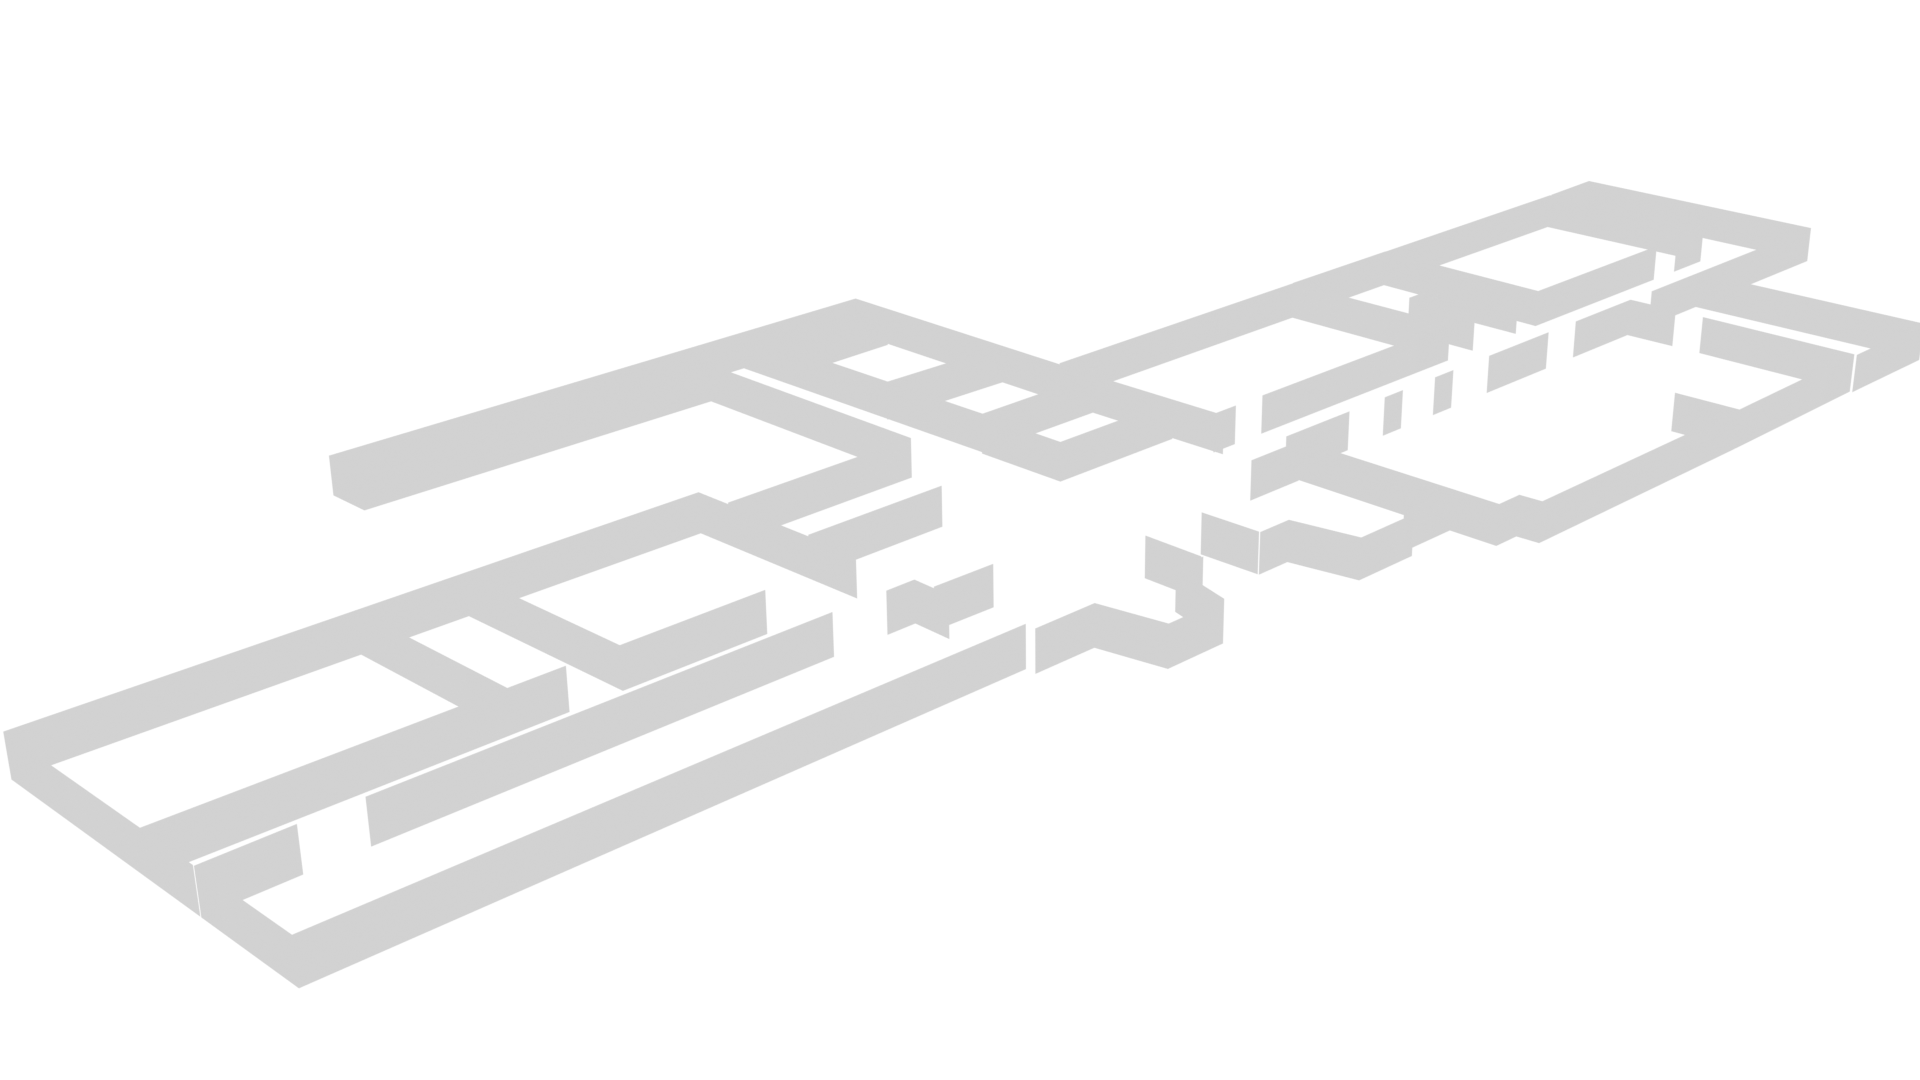
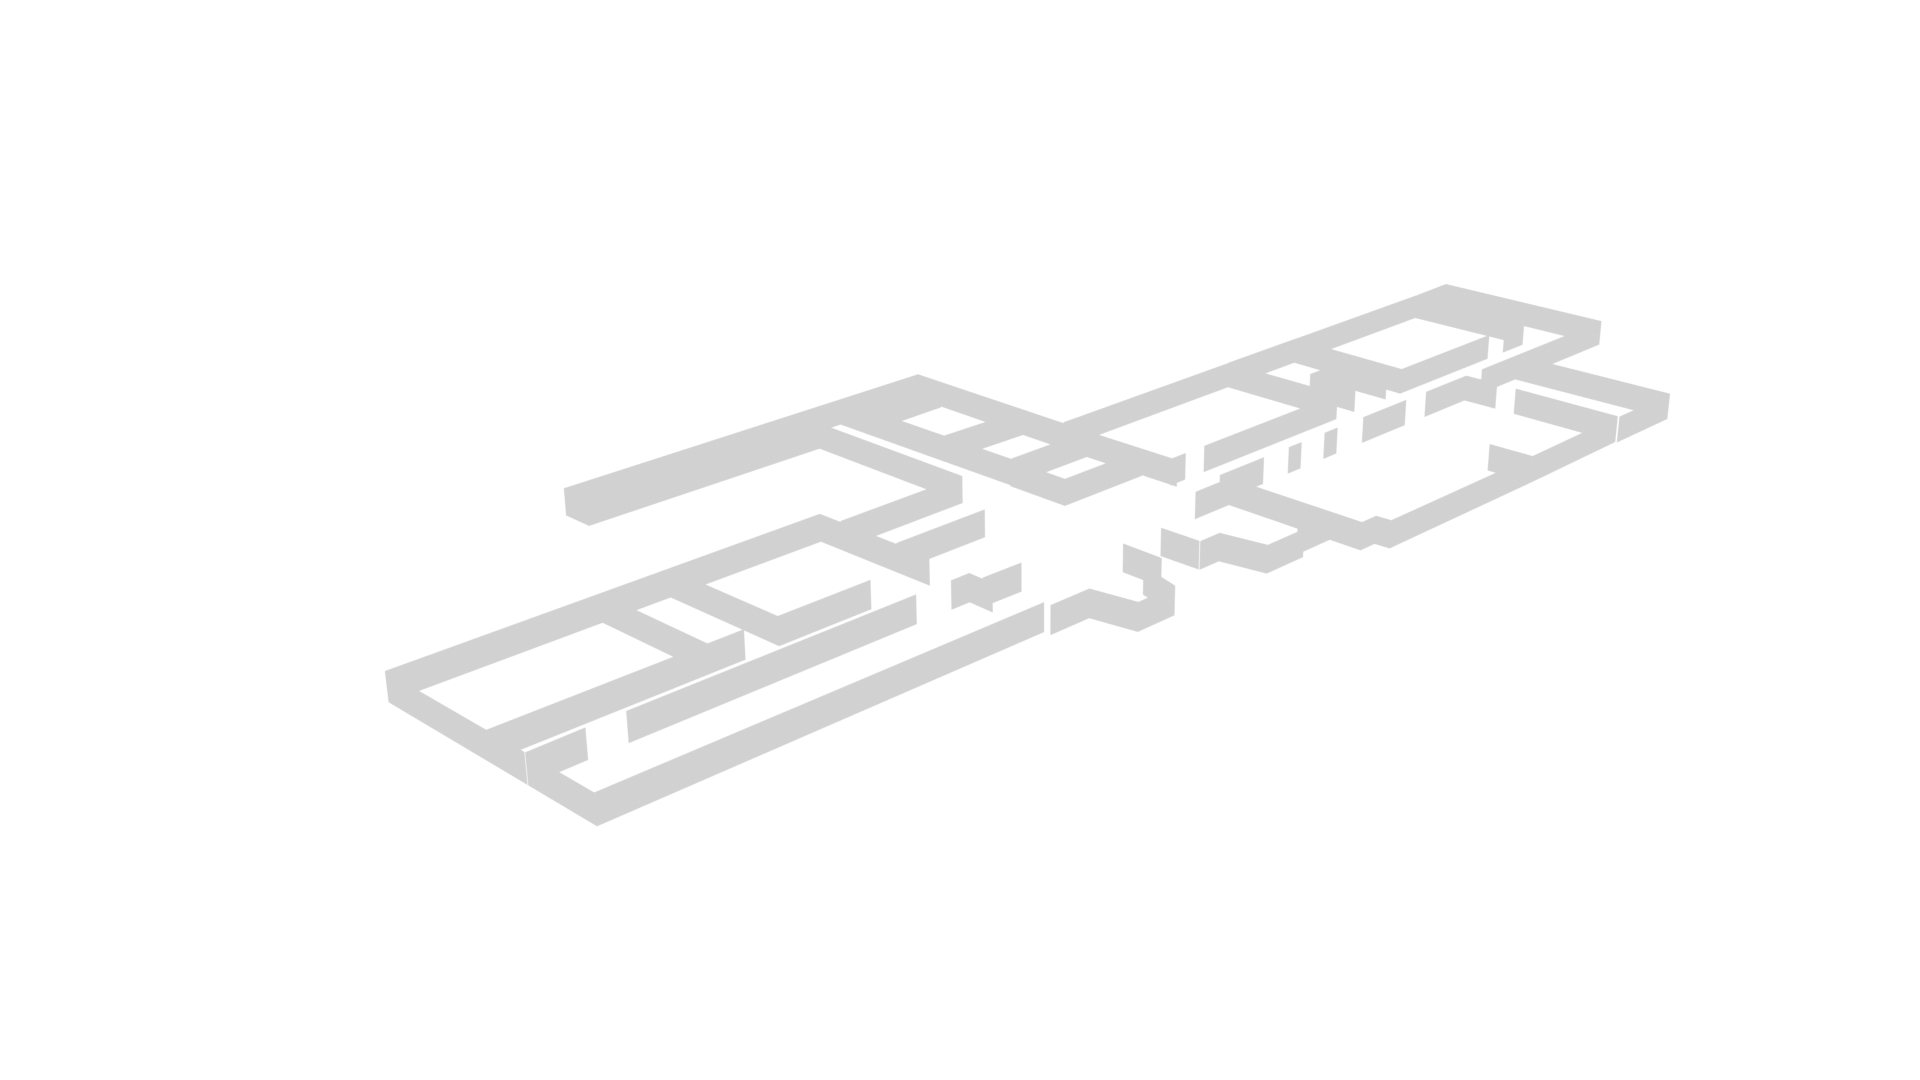
Update

Changed region(s): [[0.0, 0.1528, 1.0, 0.9167]]

diff --git a/src/views/Main.vue b/src/views/Main.vue
@@ -9,7 +9,20 @@ request().then(r => {
 </script>
 
 <template>
-<img class="map" src="../assets/F1.png">
+  <div class="container" id="l2">
+    <div class="lvl">1</div>
+    <img class="map" src="../assets/F2.png">
+    <div class="square" id="Room6">
+      <MoviePoster :events="response.events.filter(e => e.hall === Hall.Podiumzaal)"></MoviePoster>
+    </div>
+    <div class="square" id="Room5">
+      <MoviePoster :events="response.events.filter(e => e.hall === Hall.Auditorium)"></MoviePoster>
+    </div>
+  </div>
+
+<div class="container" id="l1">
+  <div class="lvl">0</div>
+  <img class="map" src="../assets/F1.png">
   <div class="square" id="Room4">
     <MoviePoster :events="response.events.filter(e => e.hall === Hall.Zaal4)"></MoviePoster>
   </div>
@@ -22,13 +35,18 @@ request().then(r => {
   <div class="square" id="Room1">
     <MoviePoster :events="response.events.filter(e => e.hall === Hall.Zaal1)"></MoviePoster>
   </div>
+</div>
 </template>
 
 <style scoped>
+.container{
+  height: 1280px;
+  width: 1920px;
+  position: absolute;
+}
 .map{
   max-height: 100%;
   max-width: 100%;
-  position: relative;
 }
 .square{
   position: absolute;
@@ -38,20 +56,42 @@ request().then(r => {
   max-height: 100%;
   border-radius: 1px;
 }
+#Room6{
+  top: 32%;
+  left: 25%;
+}
+#Room5{
+  top: 25%;
+  left: 65%;
+}
 #Room4{
-  top: 325px;
-  left: 425px;
+  top: 32%;
+  left: 25%;
 }
 #Room3{
-  top: 250px;
-  left: 675px;
+  top: 25%;
+  left: 36%;
 }
 #Room2{
-  top: 75px;
-  left: 1050px;
+  top: 13%;
+  left: 58%;
 }
 #Room1{
-  top: 10px;
-  left: 1300px;
+  top: 7%;
+  left: 70%;
+}
+#l1{
+  top: 30%;
+  left: 15%;
+}
+.lvl{
+  padding: 10px;
+  background-color: white;
+  color: black;
+  width: 40px;
+  text-align: center;
+  position: absolute;
+  bottom: 40%;
+  font-size: large;
 }
 </style>

diff --git a/src/components/MovieCard.vue b/src/components/MovieCard.vue
@@ -9,6 +9,8 @@
       <div v-if="upcoming.next != undefined" class="next">
         <h3>Next: <br/> {{upcoming.next.production.title}} {{moment(upcoming.next.startDate as unknown as string).format('HH:mm')}}</h3>
       </div>
+      <div v-if="l" class="arrow"></div>
+      <div v-else class="arrowR"></div>
     </div>
   </div>
 </template>
@@ -20,7 +22,8 @@ import {getCurrentMoviePlayed, NatLabEvent} from "../Api";
 import moment from "moment";
 import {onMounted, ref, watch, watchEffect} from "vue";
 const props = defineProps<{
-  events: NatLabEvent[]
+  events: NatLabEvent[],
+  l: true
 }>()
 const upcoming = ref<{now: NatLabEvent, next: NatLabEvent}>()
 
@@ -40,6 +43,22 @@ const x = setInterval(function () {
   width: 100%;
   position: absolute;
   background-size: contain;
+}
+.arrow{
+  background-color: white;
+  margin: 0 auto;
+  margin-top: 15px;
+  height: 100px;
+  width: 50%;
+  clip-path: polygon(40% 0%, 40% 20%, 100% 20%, 100% 80%, 40% 80%, 40% 100%, 0% 50%);
+}
+.arrowR{
+  background-color: white;
+  margin: 0 auto;
+  margin-top: 15px;
+  height: 100px;
+  width: 50%;
+  clip-path: polygon(0% 20%, 60% 20%, 60% 0%, 100% 50%, 60% 100%, 60% 80%, 0% 80%);
 }
 .card{
   color: #ffffff;

diff --git a/src/views/Hallway2.vue b/src/views/Hallway2.vue
@@ -26,19 +26,19 @@ request().then(r => {
   position: absolute;
   top: 0;
   left: 0;
-  background-color: black;
 }
 
 .poster1{
   background: center left no-repeat fixed;
-  clip-path: polygon(0 0, 55% 0, 36% 100%, 0% 100%);
+  clip-path: polygon(0 0, 50% 0, 50% 100%, 0% 100%);
   background-size: contain;
 }
 .poster2{
   background: no-repeat center left fixed;
   background-size: contain;
-  clip-path: polygon(100% 0, 55% 0, 36% 100%, 100% 100%);
+  clip-path: polygon(100% 0, 50% 0, 50% 100%, 100% 100%);
 }
+
 .poster1 .card{
   left: 15%;
 }

diff --git a/src/views/Hallway.vue b/src/views/Hallway.vue
@@ -26,18 +26,17 @@ request().then(r => {
   position: absolute;
   top: 0;
   left: 0;
-  background-color: black;
 }
 
 .poster1{
   background: center left no-repeat fixed;
-  clip-path: polygon(0 0, 55% 0, 36% 100%, 0% 100%);
+  clip-path: polygon(0 0, 50% 0, 50% 100%, 0% 100%);
   background-size: contain;
 }
 .poster2{
   background: no-repeat center left fixed;
+  clip-path: polygon(100% 0, 50% 0, 50% 100%, 0% 100%);
   background-size: contain;
-  clip-path: polygon(100% 0, 55% 0, 36% 100%, 100% 100%);
 }
 .poster1 .card{
   left: 15%;

diff --git a/src/style.css b/src/style.css
@@ -60,7 +60,6 @@ button:focus-visible {
 }
 
 #app {
-  max-width: 1280px;
   margin: 0 auto;
   padding: 2rem;
   text-align: center;
